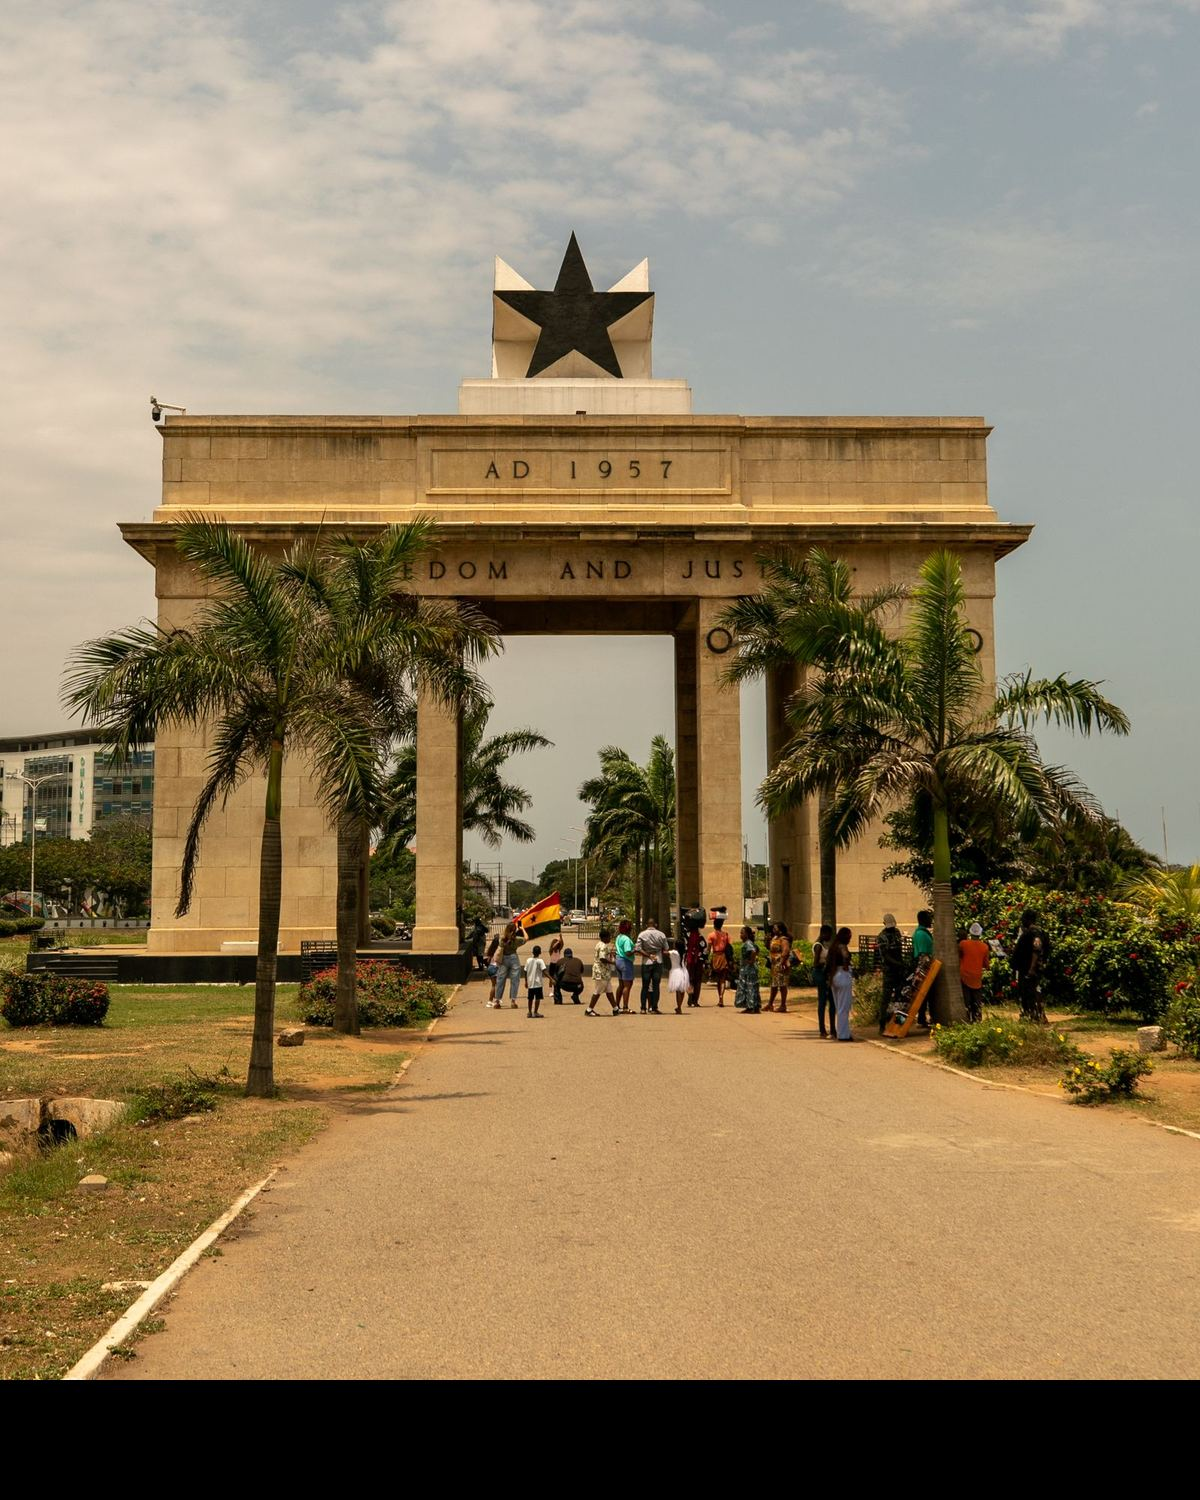
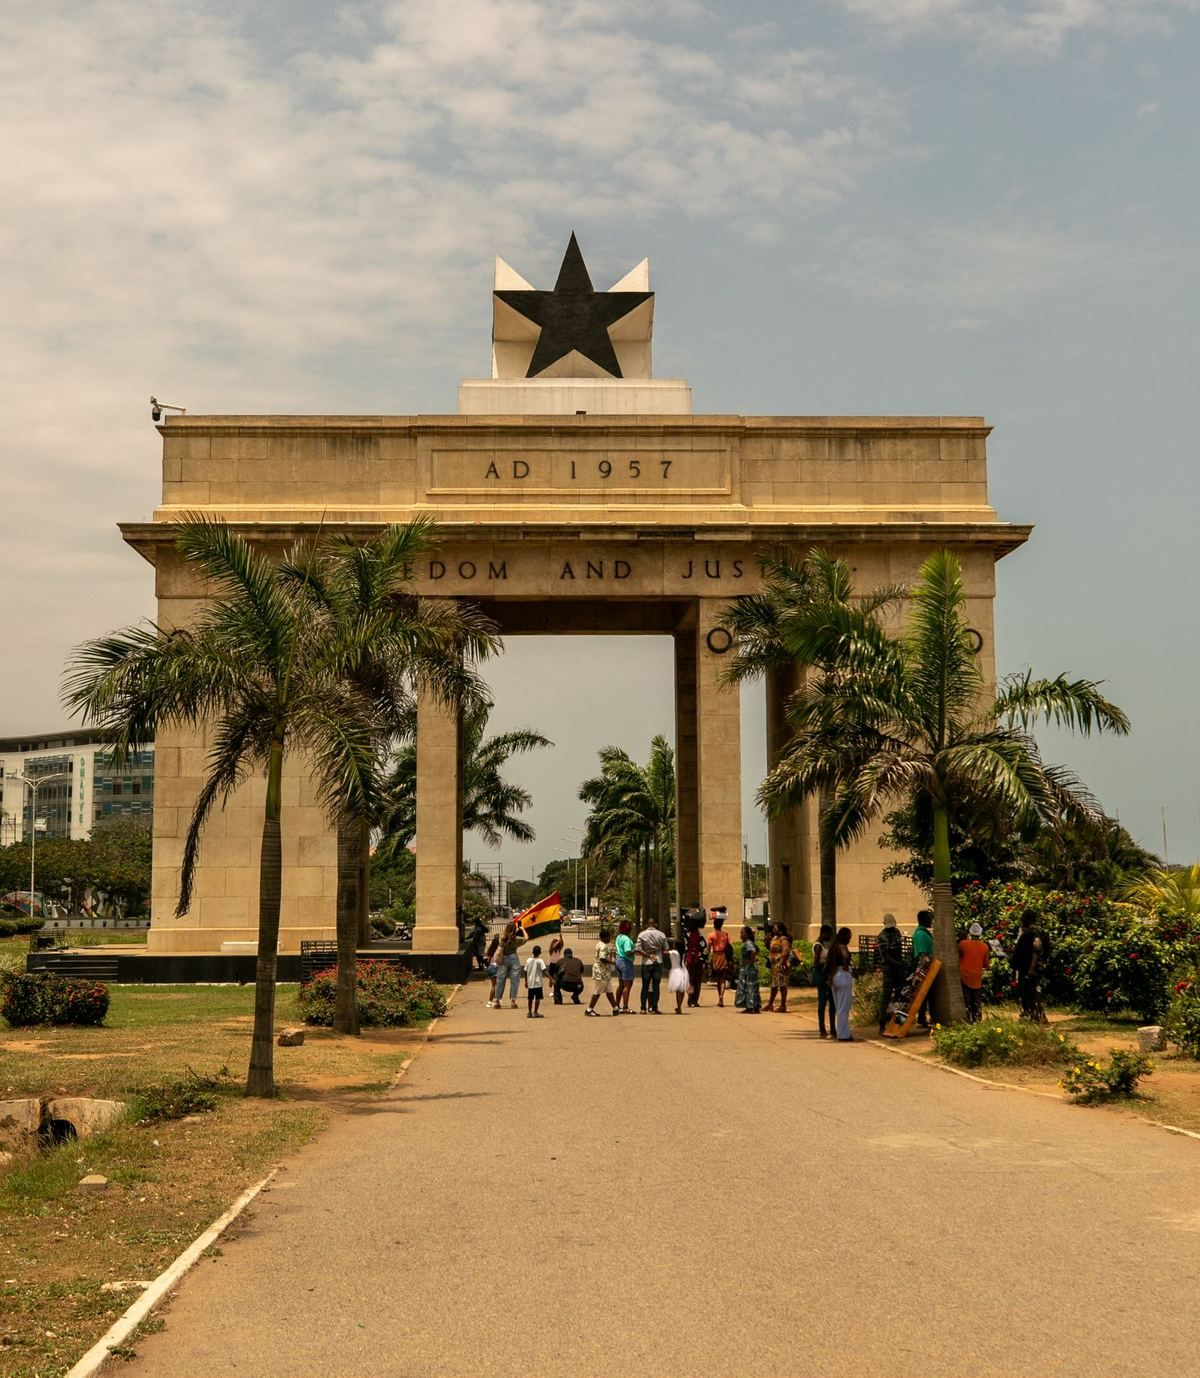
Trim the hero photo's dark strip; run CI once per change
- hero-accra.jpg: crop the 120px black band off the bottom of the file (1200×1500 → 1200×1378), so no
  crop or object-position has to hide it.
- CI: pull requests run on `pull_request` only; `push` runs only on the default and main branches. A push
  to a PR branch used to start two identical runs, doubling the demo-account sign-ins and tripping the
  Supabase Auth rate limit (429) in the database-rules step. Adds `workflow_dispatch` for manual runs.

Claude-Session: https://claude.ai/code/session_01TKKtSYqEyPZxGqLcYp3UjM

diff --git a/apps/web/src/components/marketing/home-hero.tsx b/apps/web/src/components/marketing/home-hero.tsx
@@ -50,7 +50,7 @@ export function HomeHero({ examples }: { examples: HeroExample[] }) {
           ))}
         </ul>
 
-        {/* Photo band (desktop). The source file has a dark strip along its bottom edge; this crop keeps it out. */}
+        {/* Photo band (desktop). */}
         <div className="relative order-5 mt-12 hidden h-[400px] w-full overflow-hidden rounded-hero bg-mint lg:block">
           <Image
             src={heroPhoto}
